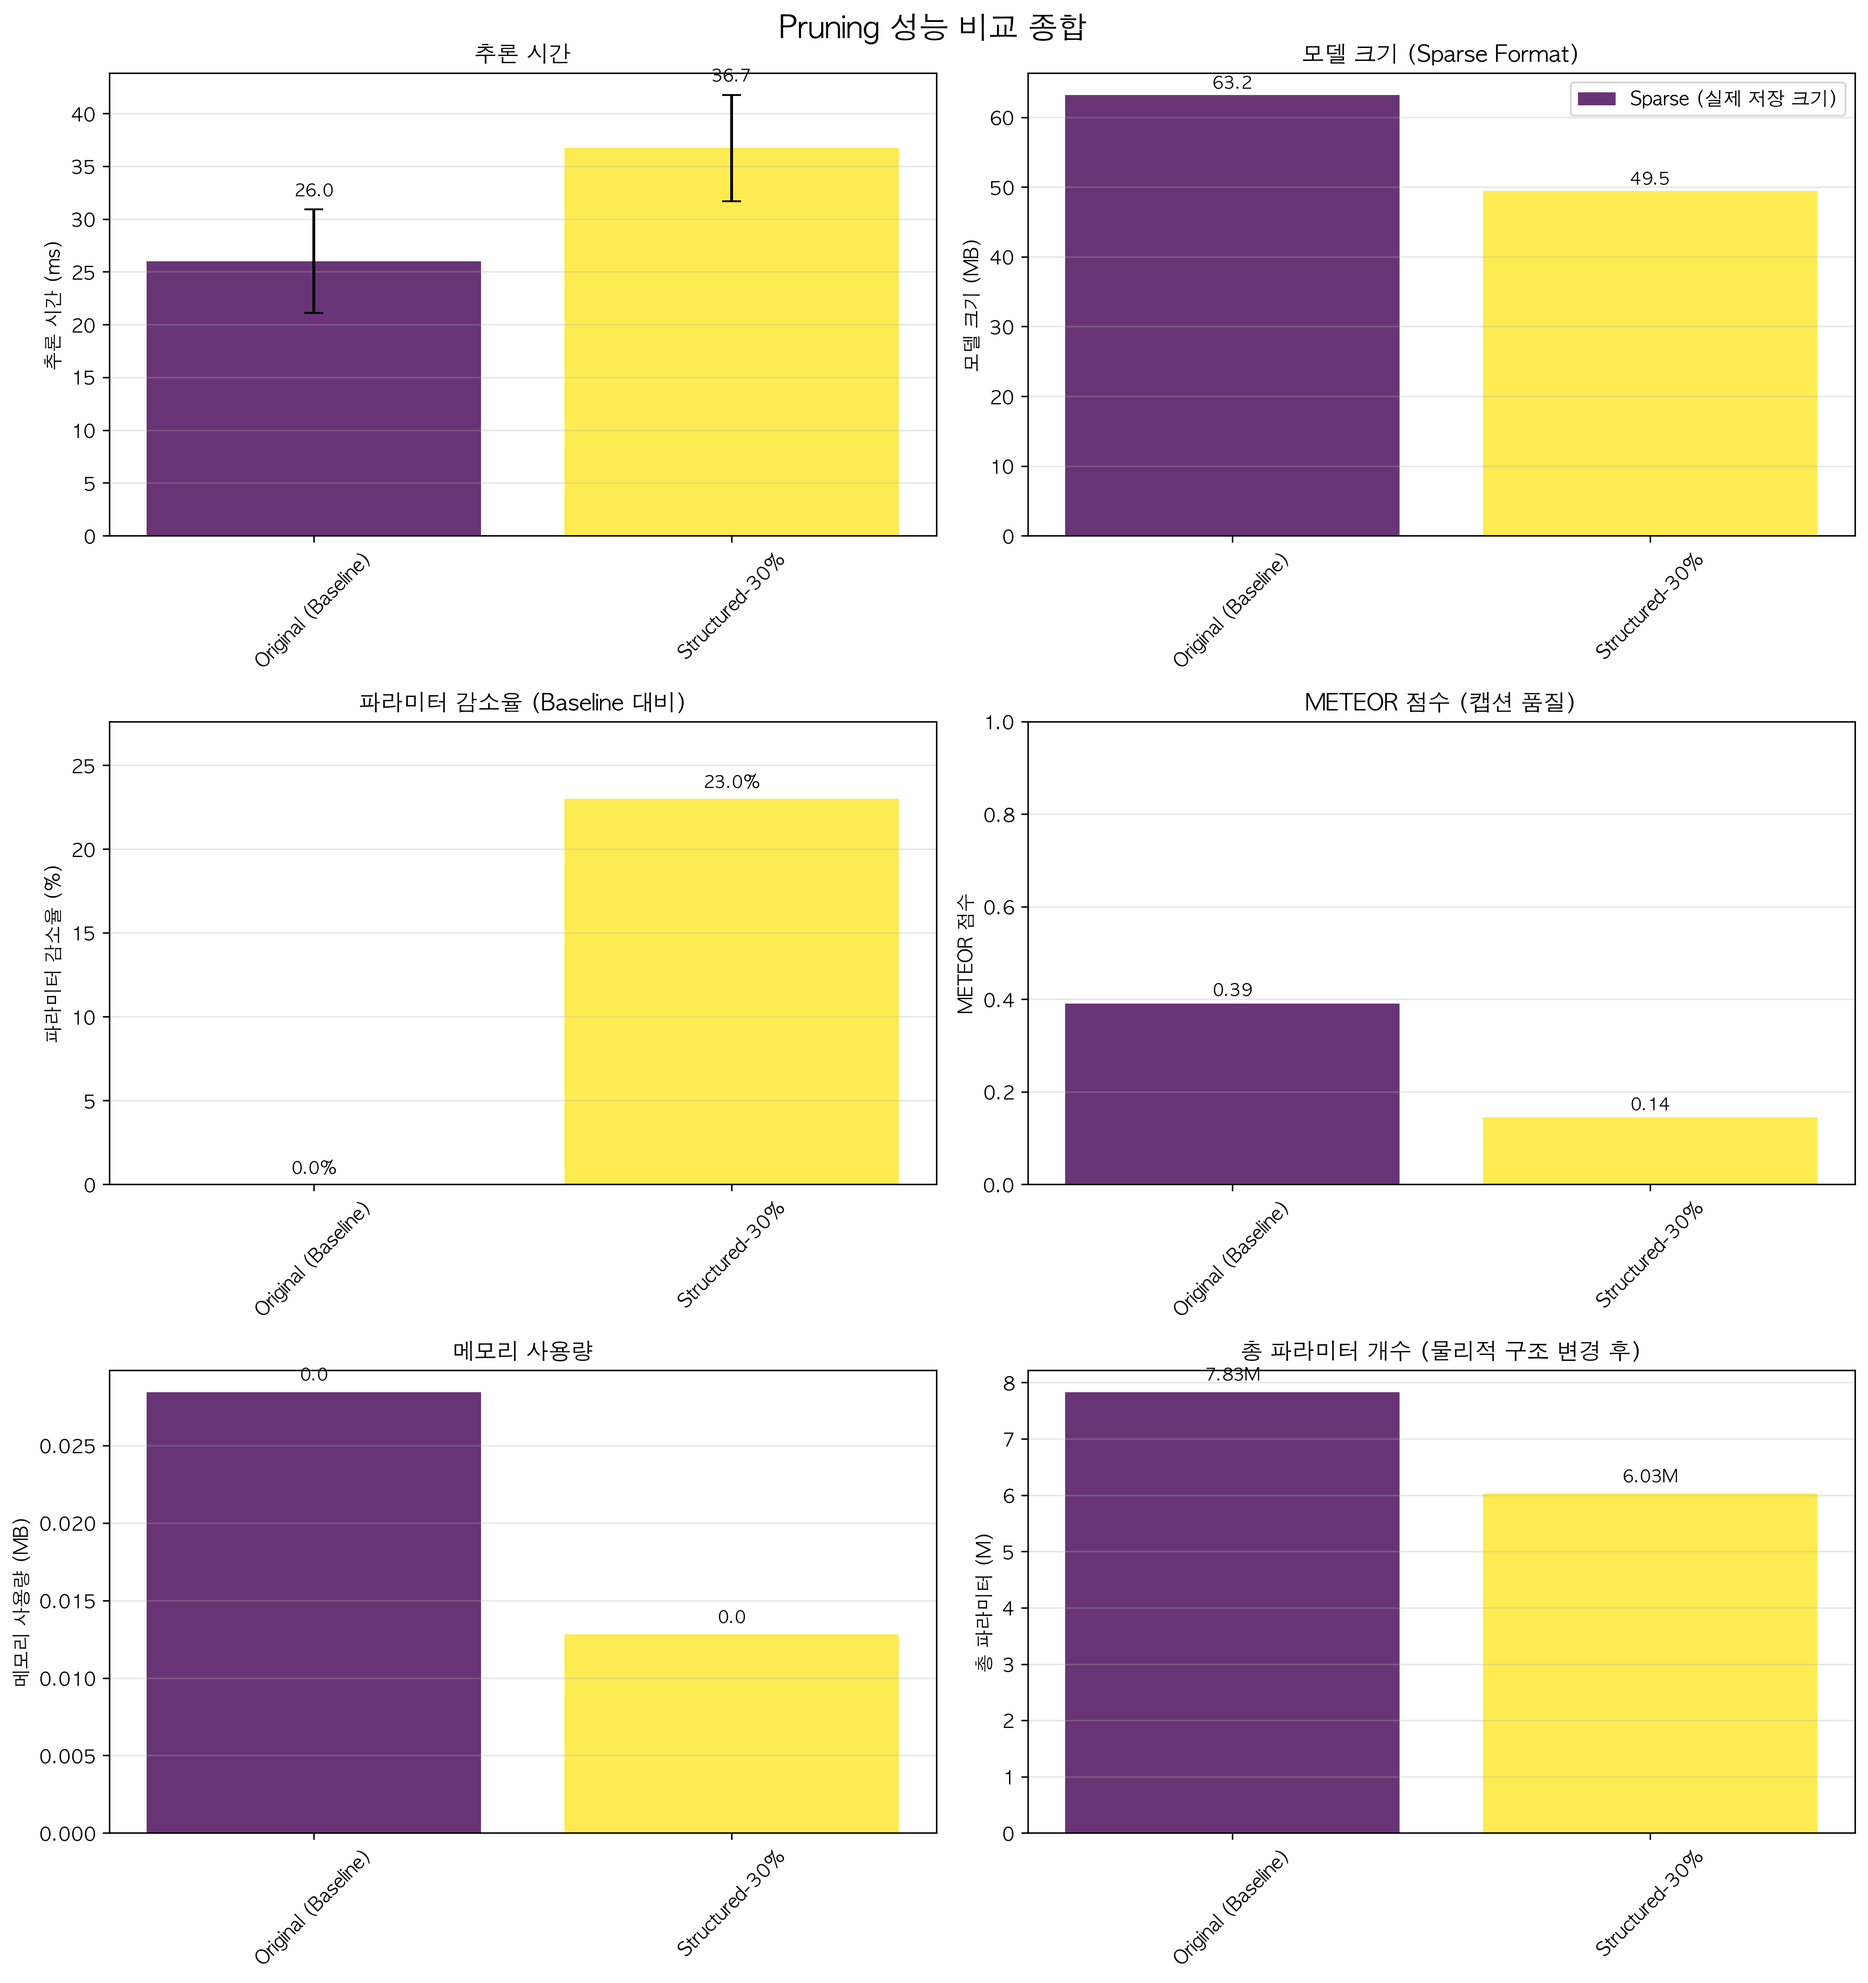
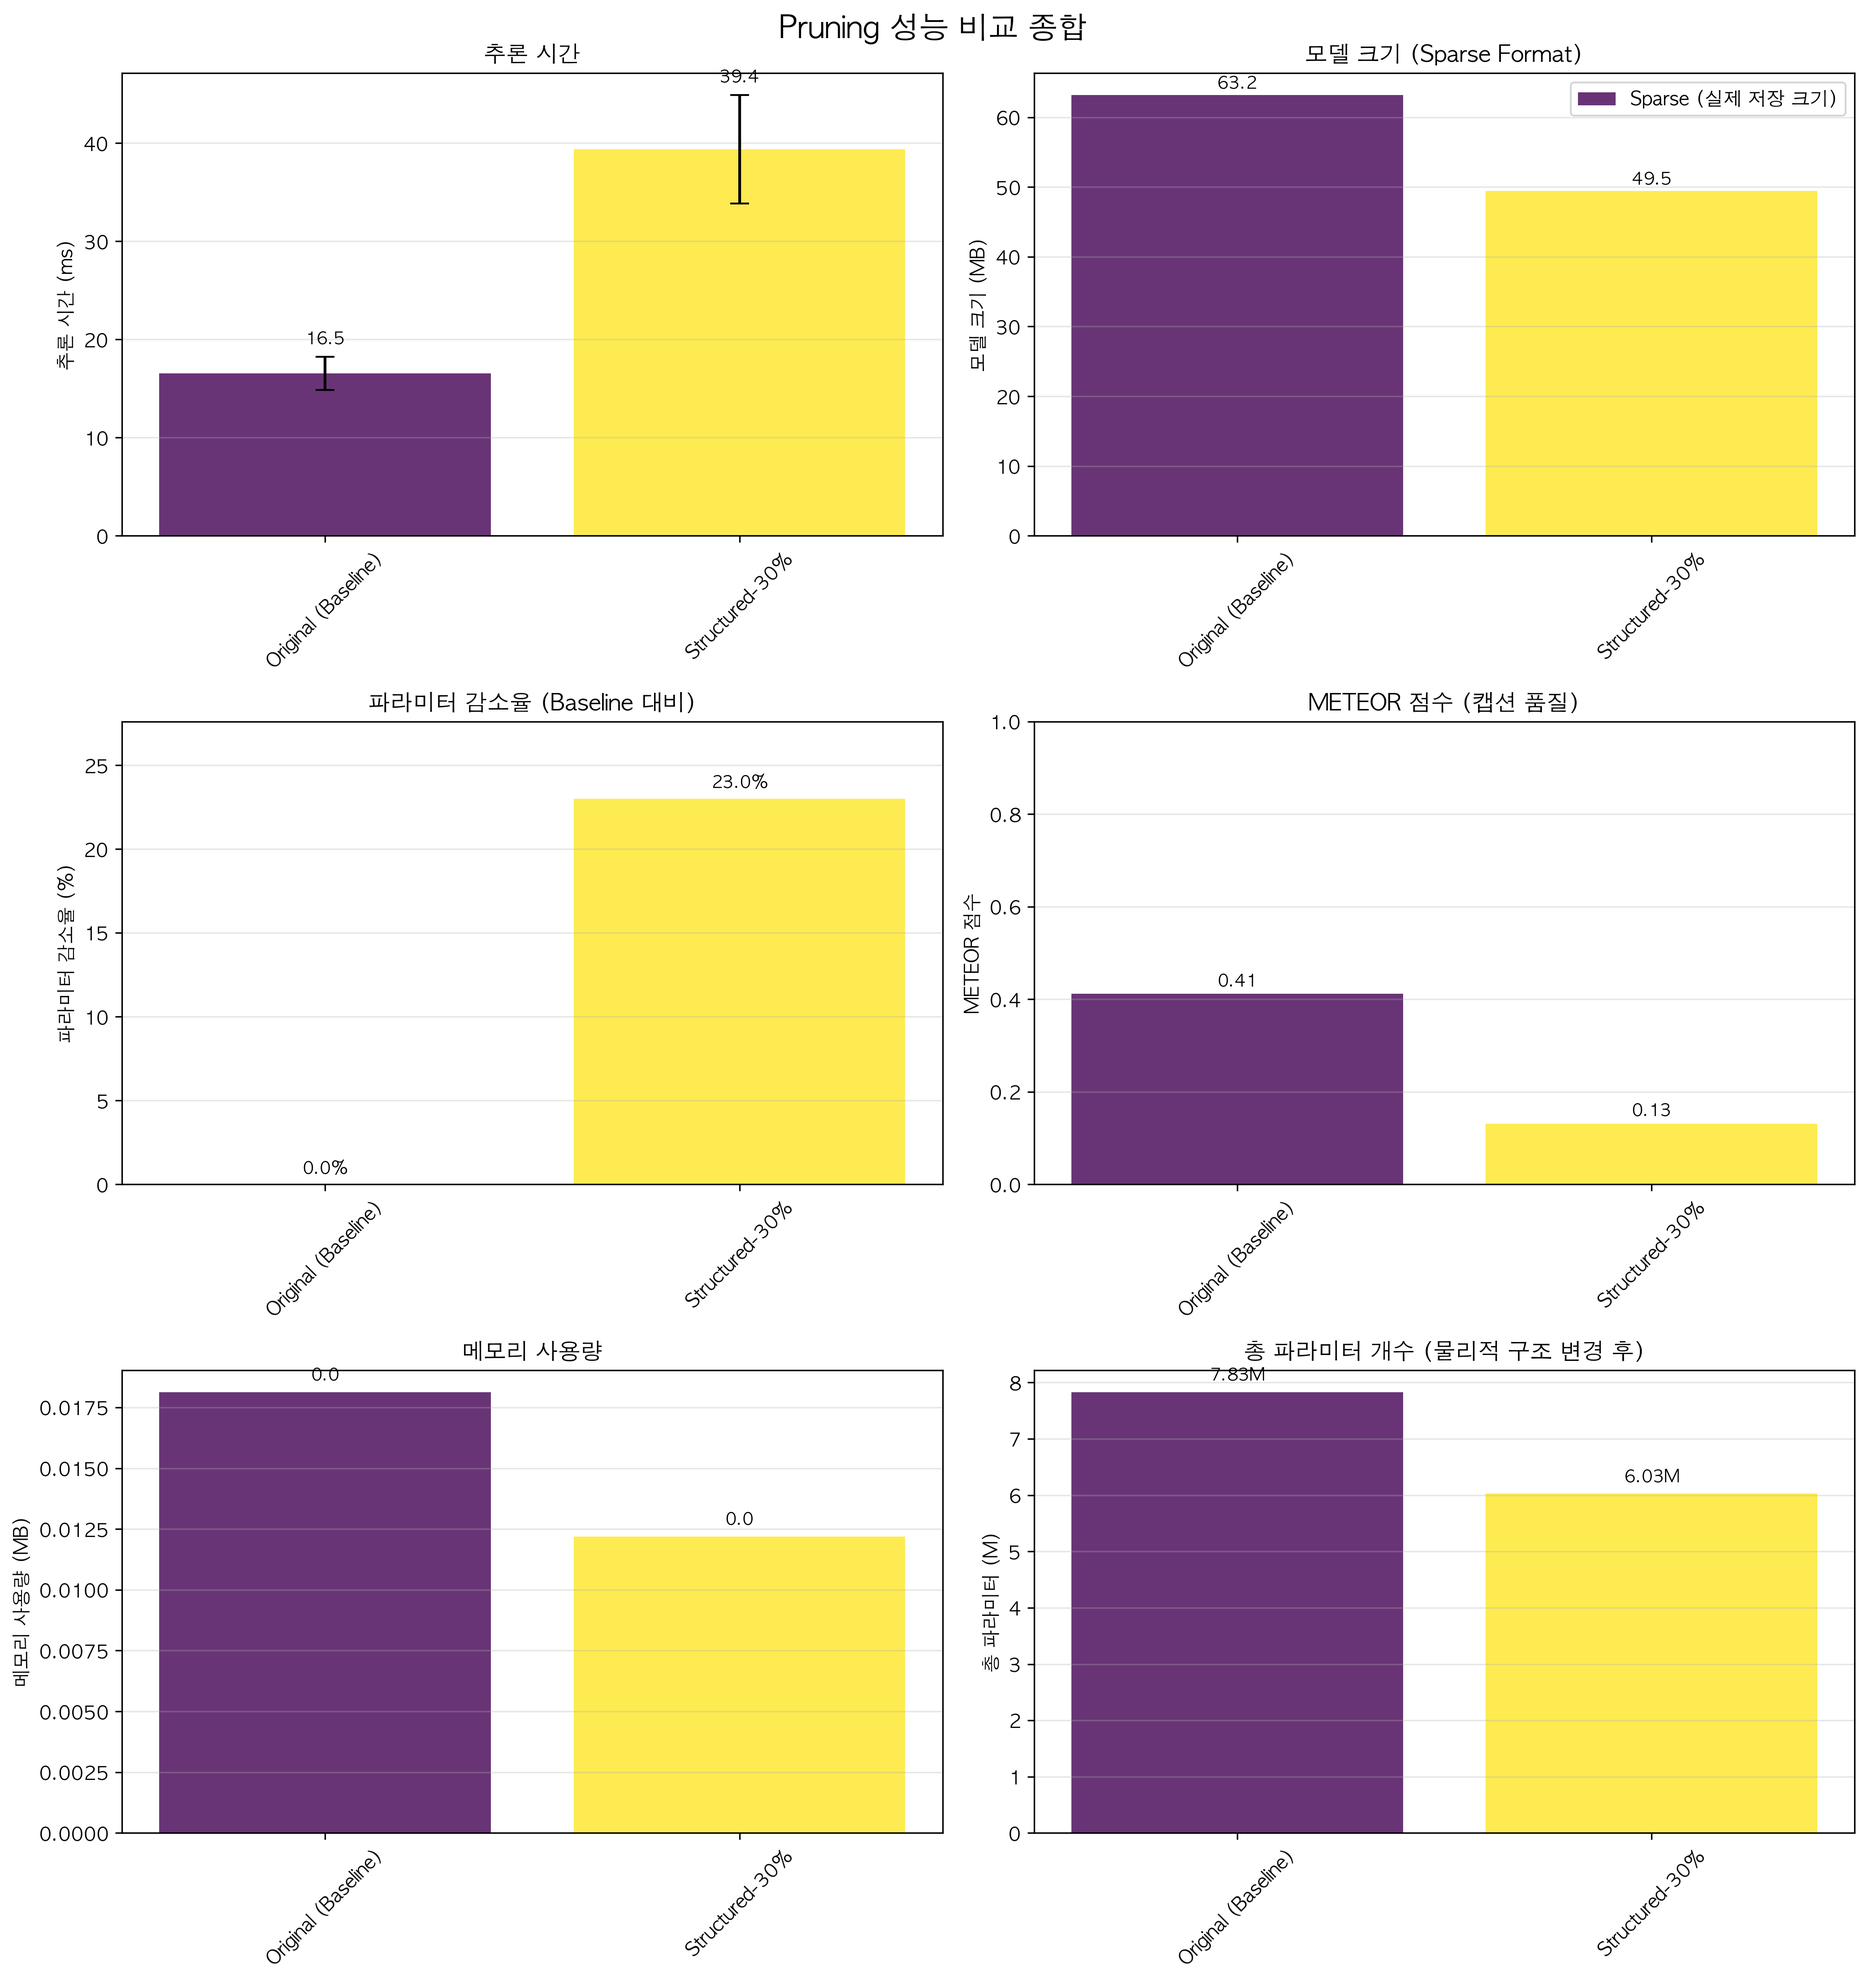
메테오 수정

diff --git a/scripts/train.py b/scripts/train.py
@@ -408,30 +408,27 @@ def validate_epoch(model, val_dataloader, criterion, epoch, vocab_size):
 
 
 def evaluate_multiple_samples(model, dataset, word_map, rev_word_map, num_samples=5, start_idx=0):
-    """여러 샘플 이미지로 캡션을 생성하고 METEOR 점수로 검증"""
+    """val 데이터셋 전체의 평균 METEOR 점수 계산"""
     model.eval()
     
-    results = []
     meteor_scores = []
     
+    # 전체 val 데이터셋 사용 (num_samples는 무시)
+    total_samples = len(dataset)
+    
     print(f"\n{'='*70}")
-    print(f"🔍 검증: {num_samples}개 샘플로 캡션 생성 및 METEOR 평가")
+    print(f"🔍 검증 데이터셋 평가: {total_samples}개 샘플의 평균 METEOR 계산")
     print(f"{'='*70}")
     
     with torch.no_grad():
-        for i in range(num_samples):
-            idx = (start_idx + i) % len(dataset)
-            
-            img_name, original_caption = dataset.image_caption_pairs[idx]
-            image, _ = dataset[idx]
-            
-            # 이미지 파일 전체 경로
-            img_path = os.path.join(dataset.images_dir, img_name)
-            
-            # 배치 차원 추가 [1, 3, 224, 224]
-            image = image.unsqueeze(0).to(device)
-            
+        for i in range(total_samples):
             try:
+                img_name, original_caption = dataset.image_caption_pairs[i]
+                image, _ = dataset[i]
+                
+                # 배치 차원 추가 [1, 3, 224, 224]
+                image = image.unsqueeze(0).to(device)
+                
                 # 캡션 생성
                 generated_words = model.generate(image, word_map, rev_word_map, max_len=MAX_CAPTION_LEN)
                 
@@ -461,44 +458,29 @@ def evaluate_multiple_samples(model, dataset, word_map, rev_word_map, num_sample
                 
                 meteor_scores.append(meteor)
                 
-                results.append({
-                    'img_name': img_name,
-                    'original': original_caption,
-                    'generated': generated_caption,
-                    'meteor': meteor
-                })
-                
-                # 각 샘플 출력
-                print(f"\n[샘플 {i+1}/{num_samples}]")
-                print(f"  📸 이미지: {img_name}")
-                print(f"  📝 원본: {original_caption}")
-                print(f"  🤖 생성: {generated_caption}")
-                print(f"  ⭐ METEOR: {meteor:.4f}")
-                
+                # 진행도 표시 (100개마다)
+                if (i + 1) % 100 == 0:
+                    current_avg = sum(meteor_scores) / len(meteor_scores)
+                    print(f"  진행: {i+1}/{total_samples}, 현재 평균 METEOR: {current_avg:.4f}")
+                    
             except Exception as e:
                 print(f"  ⚠ 샘플 {i+1} 생성 실패: {e}")
                 meteor_scores.append(0.0)
-                results.append({
-                    'img_name': img_name,
-                    'original': original_caption,
-                    'generated': '생성 실패',
-                    'meteor': 0.0
-                })
     
-    # 전체 통계 출력
+    # 전체 평균 METEOR 점수
     avg_meteor = sum(meteor_scores) / len(meteor_scores) if meteor_scores else 0.0
-    good_results = sum([1 for score in meteor_scores if score > 0.3])  # 0.3 이상을 좋은 결과로 간주
     
     print(f"\n{'='*70}")
-    print(f"📈 METEOR 검증 통계:")
+    print(f"📈 검증 데이터셋 METEOR 통계:")
+    print(f"  • 평가 샘플: {total_samples}개")
     print(f"  • 평균 METEOR 점수: {avg_meteor:.4f}")
-    print(f"  • 최고 METEOR 점수: {max(meteor_scores):.4f}")
-    print(f"  • 최저 METEOR 점수: {min(meteor_scores):.4f}")
-    print(f"  • 좋은 결과 비율: {good_results}/{num_samples} ({good_results/num_samples*100:.1f}%)")
-    print(f"  • METEOR 점수 분포:")
-    print(f"    - 0.5 이상 (우수): {sum([1 for s in meteor_scores if s >= 0.5])}개")
-    print(f"    - 0.3-0.5 (양호): {sum([1 for s in meteor_scores if 0.3 <= s < 0.5])}개")
-    print(f"    - 0.3 미만 (개선 필요): {sum([1 for s in meteor_scores if s < 0.3])}개")
+    if meteor_scores:
+        print(f"  • 최고 METEOR 점수: {max(meteor_scores):.4f}")
+        print(f"  • 최저 METEOR 점수: {min(meteor_scores):.4f}")
+        print(f"  • METEOR 점수 분포:")
+        print(f"    - 0.5 이상 (우수): {sum([1 for s in meteor_scores if s >= 0.5])}개")
+        print(f"    - 0.3-0.5 (양호): {sum([1 for s in meteor_scores if 0.3 <= s < 0.5])}개")
+        print(f"    - 0.3 미만 (개선 필요): {sum([1 for s in meteor_scores if s < 0.3])}개")
     print(f"{'='*70}\n")
     
     model.train()  # 다시 학습 모드로
@@ -507,7 +489,7 @@ def evaluate_multiple_samples(model, dataset, word_map, rev_word_map, num_sample
         'avg_meteor': avg_meteor,
         'max_meteor': max(meteor_scores) if meteor_scores else 0.0,
         'min_meteor': min(meteor_scores) if meteor_scores else 0.0,
-        'good_results': good_results / num_samples if num_samples > 0 else 0.0
+        'meteor_scores': meteor_scores
     }
 
 # --- [4] 메인 실행 코드 ---
@@ -632,7 +614,7 @@ def main():
     if os.path.exists(checkpoint_path):
         print(f"📂 체크포인트 발견: {checkpoint_path}")
         try:
-            checkpoint = torch.load(checkpoint_path, map_location=device)
+            checkpoint = torch.load(checkpoint_path, map_location=device, weights_only=False)
             if isinstance(checkpoint, dict) and 'model_state_dict' in checkpoint:
                 model.load_state_dict(checkpoint['model_state_dict'])
                 start_epoch = checkpoint.get('epoch', 0)
@@ -688,7 +670,7 @@ def main():
     print(f"배치 크기: {BATCH_SIZE}, 디바이스: {device}, Mixed Precision: {use_mixed_precision}")
     
     # 검증 설정
-    VAL_NUM_SAMPLES = min(5, len(val_dataset))  # 검증에 사용할 샘플 수
+    VAL_NUM_SAMPLES = max(5, len(val_dataset))  # 검증에 사용할 샘플 수
     
     # 학습 이력 추적
     train_losses = []
@@ -711,12 +693,10 @@ def main():
         val_losses.append(avg_val_loss)
         print(f"✅ 검증 완료. 평균 Loss: {avg_val_loss:.4f}")
         
-        # 여러 샘플로 세부 검증 및 METEOR 점수 계산
-        print(f"\n📸 세부 검증 (METEOR 점수):")
+        # 검증 데이터셋 전체의 평균 METEOR 점수 계산
+        print(f"\n📸 검증 데이터셋 평가 (전체 METEOR):")
         val_results = evaluate_multiple_samples(
-            model, val_dataset.dataset, word_map, rev_word_map, 
-            num_samples=VAL_NUM_SAMPLES, 
-            start_idx=(epoch * VAL_NUM_SAMPLES) % len(val_dataset)
+            model, val_dataset.dataset, word_map, rev_word_map
         )
         
         # METEOR 점수 추출

diff --git a/scripts/run_pruning.py b/scripts/run_pruning.py
@@ -34,7 +34,7 @@ from src.utils import (
 )
 
 # Pruning 유틸리티 import
-from pruning_utils import (
+from src.utils.pruning_utils import (
     count_nonzero_parameters,
     update_linear_layer,
     compute_hessian_importance,
@@ -42,14 +42,14 @@ from pruning_utils import (
 )
 
 # Benchmark 유틸리티 import
-from benchmark_utils import (
+from src.utils.benchmark_utils import (
     calculate_model_size_mb,
     calculate_sparsity,
     measure_inference_time,
 )
 
 # Finetune 유틸리티 import
-from finetune_utils import (
+from src.utils.finetune_utils import (
     load_checkpoint,
     setup_training,
     save_checkpoint,
@@ -72,8 +72,8 @@ PRUNING_METHODS = ['magnitude', 'structured']  # 프루닝 방법
 ENABLE_MAGNITUDE_PRUNING = False  # ⚠ Magnitude Pruning은 이 모델에 비효율적 (결과 참고)
 MAX_PRUNING_RATE = 0.51  # ⚠ 30% 이상 프루닝은 정확도 급격히 하락 (50% 이상은 거의 작동 불가)
 METEO_IMAGE_NUM=100
-FINETUNE_EPOCHS=10
-LEARNING_RATE=5e-5  # 파인튜닝 학습률 (사용자 설정 가능)
+FINETUNE_EPOCHS=20
+LEARNING_RATE=2.5e-5  # 파인튜닝 학습률 (사용자 설정 가능)
 EARLY_STOPPING_PATIENCE=2  # Early Stopping 인내심 (3 epoch 동안 개선 없으면 중지)
 VALIDATION_SPLIT=0.2  # 검증 데이터셋 비율 (20%)
 # 디바이스 선택
@@ -388,11 +388,47 @@ def run_benchmark(model, img_tensor, wm, rwm, precision_name, ref_caption=None, 
             print(f"⚠ Warm-up 실패: {e}")
             return None
     
-    # benchmark_utils를 사용한 시간 및 메모리 측정
-    inference_metrics = measure_inference_time(model, inp, num_runs=NUM_RUNS, warmup=5)
+    # 직접 추론 시간 측정 (word_map, rev_word_map 포함)
+    model_device = next(model.parameters()).device
+    inp = img_tensor.clone().detach().to(model_device)
     
-    latencies = [inference_metrics['mean_ms']] * NUM_RUNS  # 평균값 사용
-    memory_usages = [get_peak_memory_mb()] * NUM_RUNS  # 평균 메모리 사용
+    # Warm-up
+    with torch.no_grad():
+        try:
+            _ = model.generate(inp, wm, rwm, 20)
+        except Exception as e:
+            print(f"⚠ Warm-up 실패: {e}")
+            return None
+    
+    # GC 한 번만 수행
+    gc.collect()
+    if model_device.type == 'cuda':
+        torch.cuda.empty_cache()
+    
+    latencies = []
+    
+    for _ in range(NUM_RUNS):
+        if model_device.type == 'cuda':
+            torch.cuda.synchronize()
+        
+        start = time.time()
+        with torch.no_grad():
+            _ = model.generate(inp, wm, rwm, 20)
+        
+        if model_device.type == 'cuda':
+            torch.cuda.synchronize()
+        
+        latency = (time.time() - start) * 1000  # ms
+        latencies.append(latency)
+    
+    inference_metrics = {
+        'mean_ms': np.mean(latencies),
+        'std_ms': np.std(latencies),
+        'min_ms': np.min(latencies),
+        'max_ms': np.max(latencies),
+    }
+    
+    memory_usages = [get_peak_memory_mb()] * NUM_RUNS
     
     print(f"   ⏱ 평균 추론 시간: {inference_metrics['mean_ms']:.2f} ± {inference_metrics['std_ms']:.2f} ms")
     print(f"   🧠 메모리 사용량: {get_peak_memory_mb():.2f} MB")

diff --git a/src/utils/finetune_utils.py b/src/utils/finetune_utils.py
@@ -4,7 +4,6 @@
 
 import os
 import torch
-import torch.nn as nn
 
 
 def load_checkpoint(label, device):
@@ -48,7 +47,7 @@ def setup_training(model, learning_rate, device):
         print(f"   🔒 Encoder Freeze: CNN 파라미터 학습 금지")
     
     # Optimizer 설정
-    criterion = nn.CrossEntropyLoss(ignore_index=0)
+    criterion = torch.nn.CrossEntropyLoss(ignore_index=0)
     trainable_params = filter(lambda p: p.requires_grad, model.parameters())
     optimizer = torch.optim.Adam(trainable_params, lr=learning_rate)
     

diff --git a/src/utils/model_loader.py b/src/utils/model_loader.py
@@ -39,7 +39,7 @@ def load_base_model(model_path=None, device=None):
     if not os.path.exists(model_path):
         raise FileNotFoundError(f"모델 파일을 찾을 수 없습니다: {model_path}")
     
-    checkpoint = torch.load(model_path, map_location=device)
+    checkpoint = torch.load(model_path, map_location=device, weights_only=False)
     
     # 체크포인트에서 정보 추출
     if isinstance(checkpoint, dict):

diff --git a/scripts/run.py b/scripts/run.py
@@ -77,7 +77,7 @@ def load_model():
     
     try:
         print(f"📂 모델 로드 중: {MODEL_PATH}")
-        checkpoint = torch.load(MODEL_PATH, map_location=device)
+        checkpoint = torch.load(MODEL_PATH, map_location=device, weights_only=False)
         
         if isinstance(checkpoint, dict) and 'model_state_dict' in checkpoint:
             word_map = checkpoint.get('word_map')
